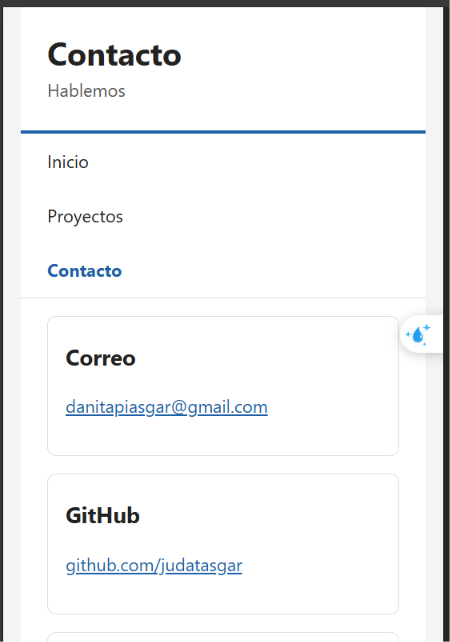
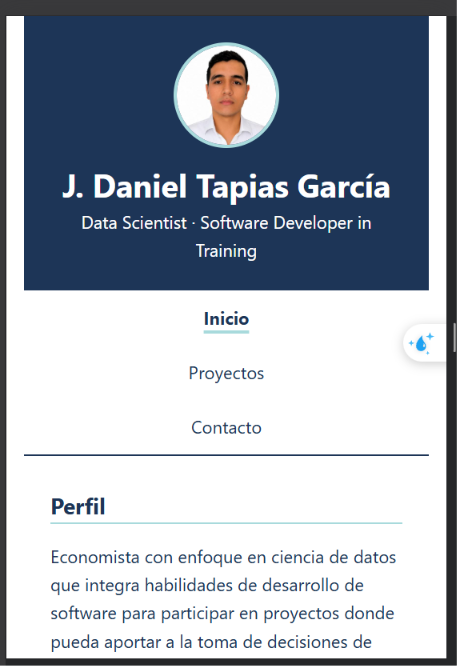
style/fix: Paleta azul, blanco y acento celeste; pie separado y actualizacion de capturas

diff --git a/styles.css b/styles.css
@@ -2,6 +2,14 @@
    Empiezo pensando en el celular y al final voy
    abriendo espacio para pantallas más grandes (R2) */
 
+/* Mi paleta: azul y blanco mandan, y el celeste solo aparece en detalles para guiar la vista.
+   Si quiero cambiar colores, toco solo estas tres líneas */
+:root {
+  --azul: #1d3557;
+  --blanco: #ffffff;
+  --acento: #a8dadc;
+}
+
 /* Lo básico: que el padding no agrande las cajas y una letra fácil de leer */
 * {
   box-sizing: border-box;
@@ -12,8 +20,8 @@ body {
   font-family: "Segoe UI", Arial, sans-serif;
   font-size: 1rem;
   line-height: 1.6;
-  color: #222222;
-  background-color: #f4f4f4;
+  color: var(--azul);
+  background-color: var(--blanco);
 }
 
 h1,
@@ -23,11 +31,12 @@ h3 {
 }
 
 a {
-  color: #1f5fa8;
+  color: inherit;
 }
 
+/* Sin un tercer color: al pasar el mouse el enlace pierde el subrayado */
 a:hover {
-  color: #143f70;
+  text-decoration: none;
 }
 
 /* Quiero que ninguna imagen se salga de la pantalla del celular (R7) */
@@ -42,7 +51,7 @@ img {
   max-width: 70rem;
   width: 92%;
   margin: 0 auto;
-  background-color: #ffffff;
+  background-color: var(--blanco);
 }
 
 /* En el celular todo va una cosa debajo de otra, en el orden en que quiero que me lean (R4) */
@@ -70,10 +79,11 @@ img {
 .lateral   { grid-area: lateral; }
 .pie       { grid-area: pie; }
 
-/* Mi nombre arriba, centrado en el celular, con una línea de color para darle presencia */
+/* Mi nombre arriba sobre el azul, centrado en el celular, para darle presencia */
 .cabecera {
   padding: 1.5rem;
-  border-bottom: 3px solid #1f5fa8;
+  background-color: var(--azul);
+  color: var(--blanco);
   text-align: center;
 }
 
@@ -84,7 +94,6 @@ img {
 
 .profesion {
   margin: 0.25rem 0 0;
-  color: #555555;
 }
 
 /* En celular la foto va arriba del nombre; redonda y de tamaño contenido (R7) */
@@ -100,55 +109,66 @@ img {
   height: 6rem;
   border-radius: 50%;
   object-fit: cover;
-  border: 3px solid #1f5fa8;
+  border: 3px solid var(--acento);
 }
 
 /* El menú: en celular cada enlace en su propia línea y centrado, fácil de tocar (R8) */
 .menu {
   display: flex;
   flex-direction: column;
-  border-bottom: 1px solid #dddddd;
+  border-bottom: 2px solid var(--azul);
 }
 
 .menu a {
   padding: 0.75rem 1.5rem;
   text-align: center;
   text-decoration: none;
-  color: #222222;
+  color: var(--azul);
 }
 
 .menu a.activo {
   font-weight: bold;
-  color: #1f5fa8;
+  text-decoration: underline;
+  text-decoration-color: var(--acento);
+  text-decoration-thickness: 0.2rem;
+  text-underline-offset: 0.3rem;
 }
 
 /* Al pasar el mouse quiero que se note a dónde voy a entrar */
 .menu a:hover,
 .menu a:focus {
-  background-color: #eef3fa;
-  color: #1f5fa8;
+  background-color: var(--acento);
+  color: var(--azul);
 }
 
-/* El contenido con aire alrededor; la lateral un poco más gris para separarla */
+/* El contenido con aire alrededor; la lateral en azul para separarla del contenido */
 .principal,
 .lateral {
   padding: 1rem 1.5rem;
 }
 
 .lateral {
-  background-color: #fafafa;
+  background-color: var(--azul);
+  color: var(--blanco);
+}
+
+/* En la lateral los títulos van en celeste para que se distingan sobre el azul */
+.lateral h2,
+.lateral h3 {
+  color: var(--acento);
 }
 
 h2 {
   font-size: 1.25rem;
-  border-bottom: 1px solid #dddddd;
+  border-bottom: 2px solid var(--acento);
   padding-bottom: 0.25rem;
 }
 
+/* Fechas y lugares más pequeños y en cursiva, para no necesitar un gris */
 .detalle {
   margin: 0;
-  color: #666666;
   font-size: 0.9rem;
+  font-style: italic;
 }
 
 .lista-simple {
@@ -165,6 +185,12 @@ h2 {
   vertical-align: -0.15rem;
 }
 
+/* Los iconos son azules; sobre fondo azul los vuelvo blancos */
+.lateral .icono,
+.tarjeta:hover .icono {
+  filter: brightness(0) invert(1);
+}
+
 .lista-simple li {
   margin-bottom: 0.3rem;
 }
@@ -177,16 +203,17 @@ h2 {
 }
 
 .tarjeta {
-  border: 1px solid #dddddd;
+  border: 2px solid var(--azul);
   border-radius: 0.5rem;
   padding: 1rem;
-  transition: border-color 0.2s, box-shadow 0.2s, transform 0.2s;
+  transition: background-color 0.2s, color 0.2s, transform 0.2s;
 }
 
-/* La tarjeta se levanta un poquito cuando la señalo */
+/* Cuando la señalo, la tarjeta se invierte (azul con letra blanca) y sube un poquito */
 .tarjeta:hover {
-  border-color: #1f5fa8;
-  box-shadow: 0 0.25rem 0.75rem rgba(0, 0, 0, 0.08);
+  background-color: var(--azul);
+  border-color: var(--acento);
+  color: var(--blanco);
   transform: translateY(-0.15rem);
 }
 
@@ -195,13 +222,15 @@ h2 {
   border-bottom: none;
 }
 
-/* Un pie discreto para cerrar */
+/* El pie en azul, para cerrar la página igual que como empieza.
+   La línea celeste lo separa de la columna lateral, que también es azul */
 .pie {
   padding: 1rem 1.5rem;
   text-align: center;
   font-size: 0.9rem;
-  color: #666666;
-  border-top: 1px solid #dddddd;
+  background-color: var(--azul);
+  color: var(--blanco);
+  border-top: 0.25rem solid var(--acento);
 }
 
 /* A partir de aquí la pantalla crece y voy ajustando (R3) */
